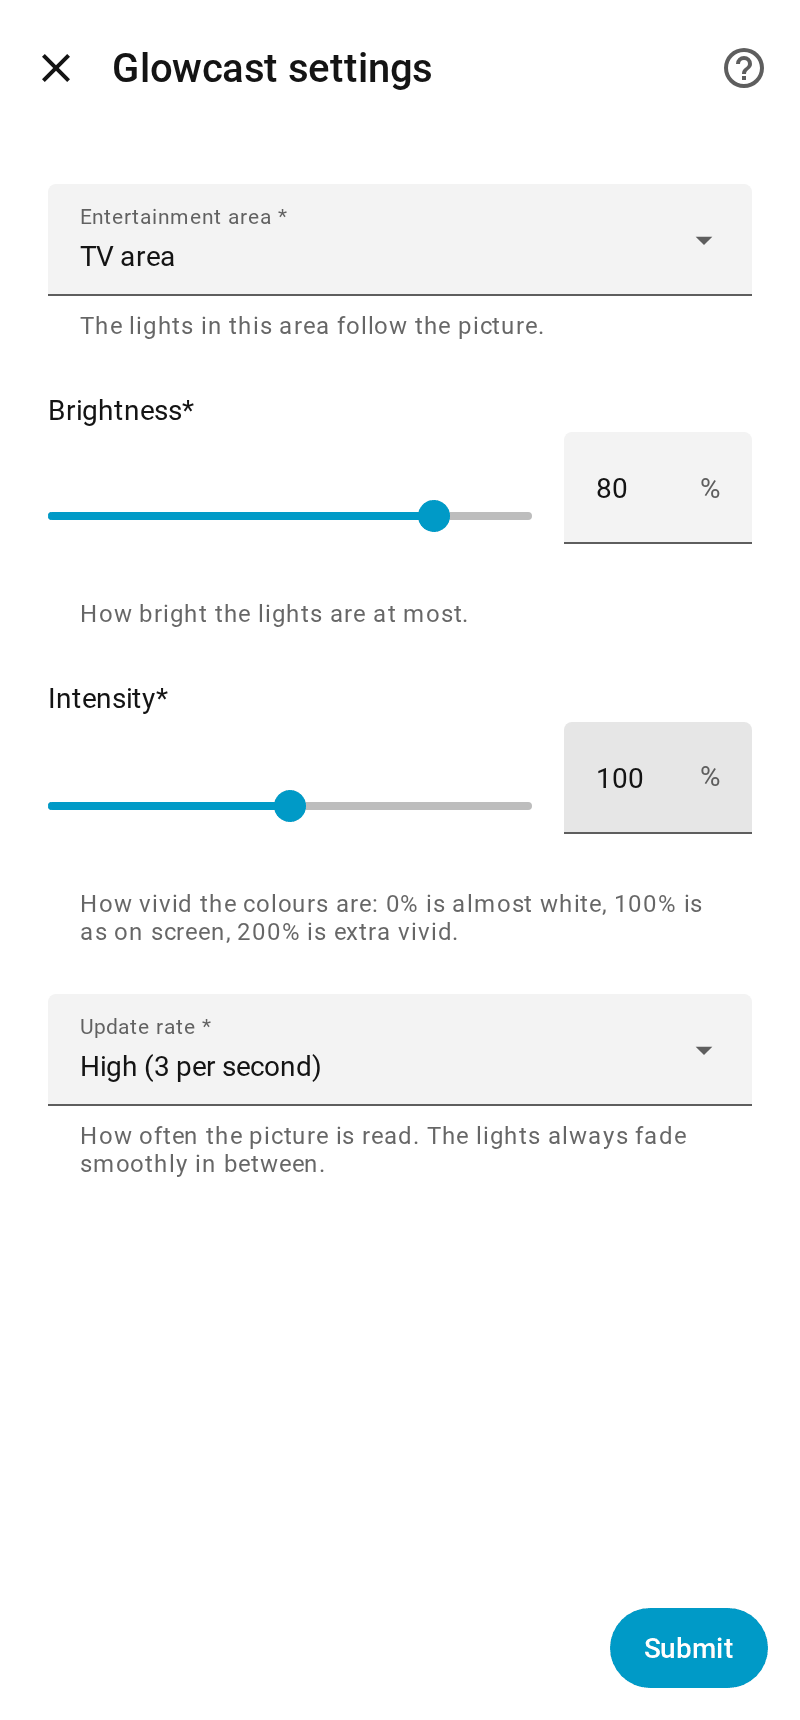
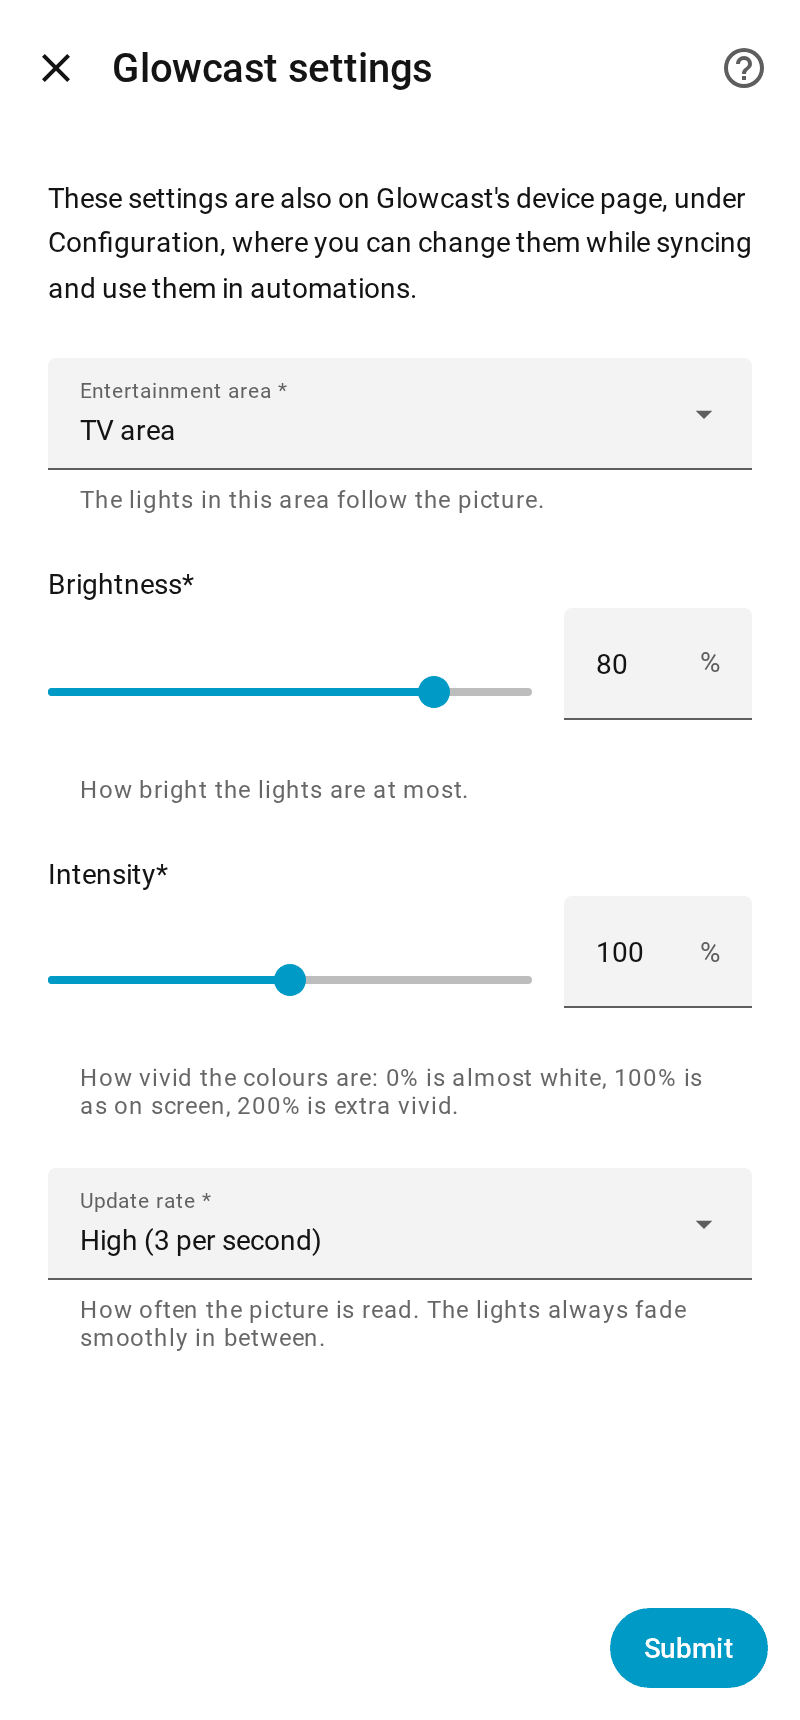
Settings screen: say that the settings are also on the device page (#158)
* Settings screen: say that the settings are also on the device page

* README: settings screenshot with the note about the device page

Made with scripts/demo.py --still (English, light, default settings),
128-colour palette.

---------

diff --git a/README.md b/README.md
@@ -86,7 +86,7 @@ Each TV can have one Glowcast entry. If the bridge later stops accepting Glowcas
 
 Under **Configure**, or on Glowcast's device page (see [Settings on the device page](#settings-on-the-device-page)), you can change the area, brightness (1-100 %, default 80 %), intensity (how vivid the colours are, 0-200 %, default 100 %) and the update rate: Low (1 per second), Medium (2), High (3, default) or Maximum (as fast as the TV allows). The lights always fade smoothly between updates. The TV and bridge are fixed; to change them, remove Glowcast and add it again.
 
-<img width="400" alt="Glowcast's settings screen in Home Assistant: entertainment area TV area, brightness 80 %, intensity 100 %, update rate High (3 per second)." src="https://raw.githubusercontent.com/nicohabets/glowcast/main/docs/images/settings.png">
+<img width="400" alt="Glowcast's settings screen in Home Assistant: a note that the same settings are on the device page under Configuration, then entertainment area TV area, brightness 80 %, intensity 100 %, update rate High (3 per second)." src="https://raw.githubusercontent.com/nicohabets/glowcast/main/docs/images/settings.png">
 
 *The settings screen under Configure, with the default settings.*
 
